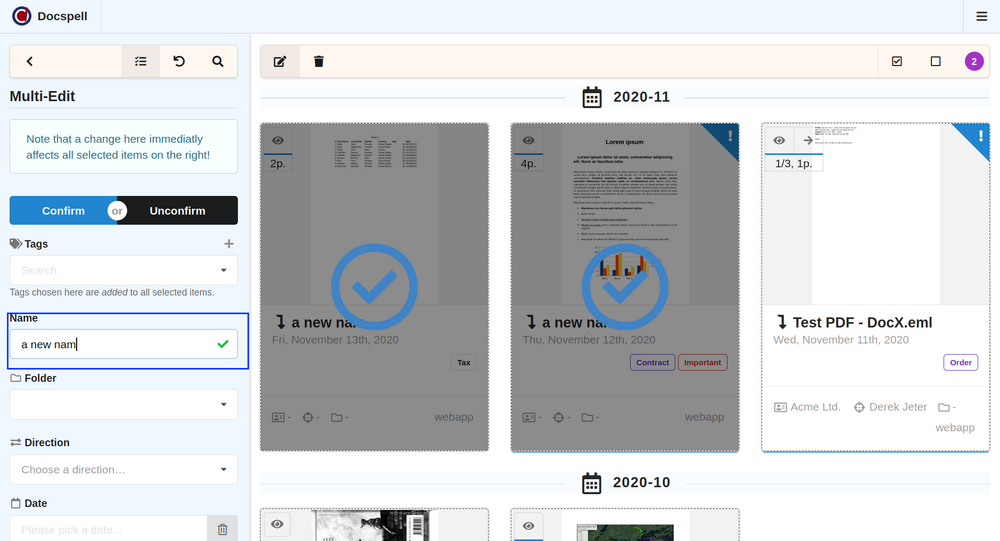
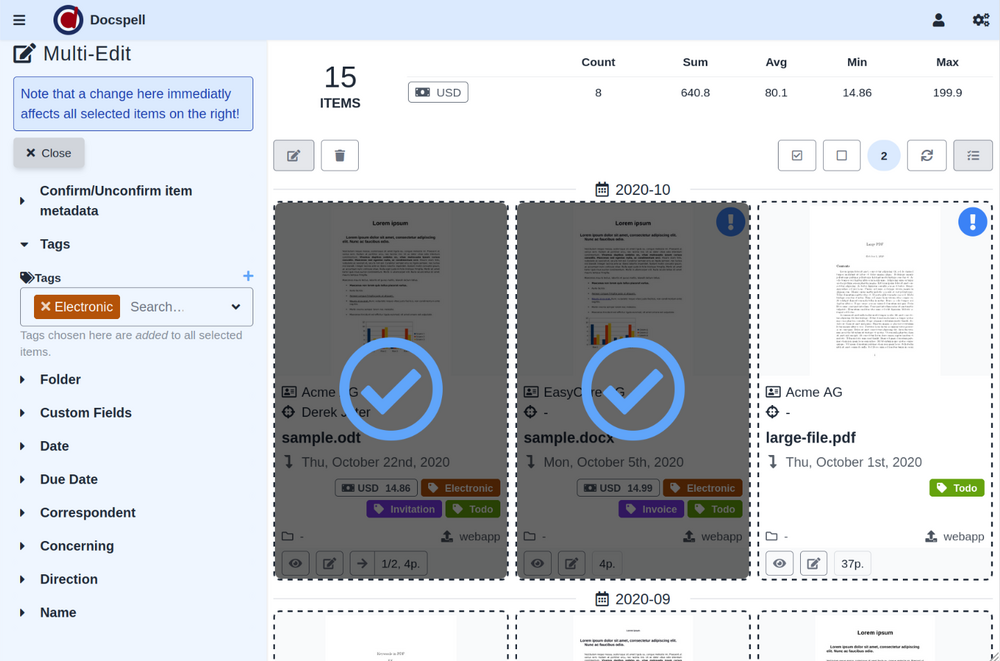
Update docs: uploads, metadata, custom fields, multi-edit

diff --git a/website/site/content/docs/webapp/curate.md b/website/site/content/docs/webapp/curate.md
@@ -12,21 +12,14 @@ amend with existing data.
 After files have been uploaded and the job executor created the
 corresponding items, they will show up on the main page. All items the
 job executor has just created are initially marked as *New*. The
-option *only New* in the left search menu can be used to select only
-new items:
+option *Inbox* in the left search menu can be used to select only new
+items:
 
-{{ figure(file="docspell-curate-1.jpg") }}
+{{ figure(file="docspell-curate-1.png") }}
 
 Then you can go through all new items and check their metadata: Click
 on the first item to open the detail view. This shows the documents
 and the meta data in the header.
-
-# Check selected items
-
-To change something, click the *Edit* button in the menu above the
-document view. This will open a form next to your documents.
-
-{{ figure(file="docspell-curate-2.jpg") }}
 
 
 # Modify if necessary
@@ -34,9 +27,11 @@ document view. This will open a form next to your documents.
 You can compare the data with the documents and change as you like.
 Since the item status is *New*, you'll see the suggestions docspell
 found during processing. If there were multiple candidates, you can
-select another one by clicking its name in the suggestion list.
+select another one by clicking its name in the suggestion list. In
+state *New* the left menu is fully expanded so you see all suggestions
+immediatly.
 
-{{ figure(file="docspell-curate-3.jpg") }}
+{{ figure(file="docspell-curate-3.png") }}
 
 
 When you change something in the form, it is immediatly applied.
@@ -54,11 +49,12 @@ drag&drop.
 
 If everything looks good, click the *Confirm* button to confirm the
 current data. The *New* status goes away and also the suggestions are
-hidden in this state. You can always go back by clicking the
-*Unconfirm* button.
+hidden in this state. All metadata form fields are folded as they were
+before. You can always go back by clicking the *Unconfirm* button at
+the right of the menu bar.
 
 
-{{ figure(file="docspell-curate-5.jpg") }}
+{{ figure(file="docspell-curate-5.png") }}
 
 
 # Proceed with next item
@@ -69,4 +65,4 @@ keep the current view, so you can continue checking the data. If you
 are on the last item, the view switches to the listing view when
 clicking *Next*.
 
-{{ figure(file="docspell-curate-6.jpg") }}
+{{ figure(file="docspell-curate-6.png") }}

diff --git a/website/site/content/docs/webapp/customfields.md b/website/site/content/docs/webapp/customfields.md
@@ -74,7 +74,7 @@ multiple fields. Only one value is allowed to set per item and field.
 The example below shows a text field and a money field:
 
 <div class="columns is-centered">
-    <div class="column is-three-quarters">
+    <div class="column">
     {{ figure(file="custom-fields-03.png") }}
     </div>
 </div>
@@ -92,7 +92,7 @@ next to an input, the value is removed from the item.
 The item card also shows custom fields, in the same place as tags:
 
 <div class="columns is-centered">
-    <div class="column is-half">
+    <div class="column is-one-quarter">
     {{ imgnormal(file="custom-fields-05.png", width=300) }}
     </div>
 </div>
@@ -107,7 +107,7 @@ The search menu shows the same dropdown for selecting a custom field.
 Then you can set values that are matched against your items.
 
 <div class="columns is-centered">
-    <div class="column is-three-quarters">
+    <div class="column">
     {{ figure(file="custom-fields-06.png") }}
     </div>
 </div>
@@ -118,13 +118,9 @@ a wildcard at beginning and/or end to do a substring match:
 
 {{ figure(file="custom-fields-07.png") }}
 
-It is possible to use it for numeric fields, too. Just be aware that
-this is text-based matching.
+For all numeric and money values, a little summary is displayed next
+to the overall item count at the top of the page.
 
-<div class="columns is-centered">
-    <div class="column is-three-quarters">
-    {{ figure(file="custom-fields-08.png") }}
-    </div>
-</div>
-
-Using a single `*` allows to find items that have any value set.
+A wildcard can be used with all fields. Just be aware that this is
+always text-based matching. Using a single `*` allows to find items
+that have any value set.

diff --git a/website/site/content/docs/webapp/multiedit.md b/website/site/content/docs/webapp/multiedit.md
@@ -8,8 +8,9 @@ Docspell allows to edit and delete multiple items at once.
 ## Toggle Selection Mode
 
 Search the items you want to edit or delete and then select them by
-changing into "select mode". This changes the view slightly by adding
-a menu to the main area and the item cards have a dashed border:
+changing into "select mode". This changes the view slightly by
+changing the menu to the main area and the item cards have a dashed
+border:
 
 {{ figure(file="multiedit-01.png") }}
 
@@ -36,10 +37,8 @@ selected items. You can change the selection anytime.
 {{ figure(file="multiedit-04.png") }}
 
 
-If you are done, just click on the icon from the beginning to go back
-to "normal" mode.
-
-{{ figure(file="multiedit-05.png") }}
+If you are done, just click on the *Close* button or the icon from the
+beginning to go back to "normal" mode.
 
 
 ### Tags
